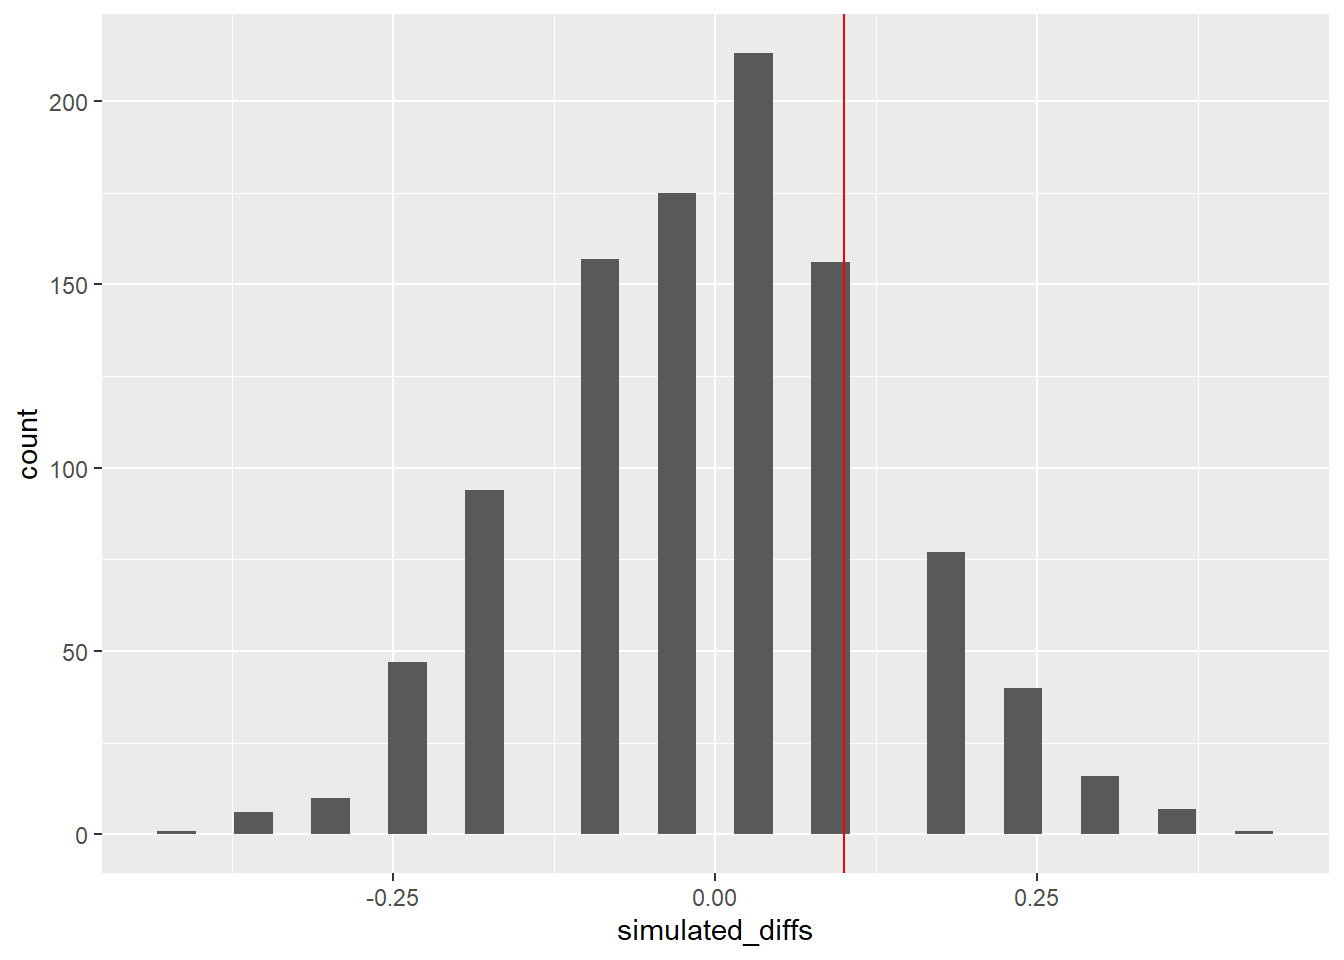
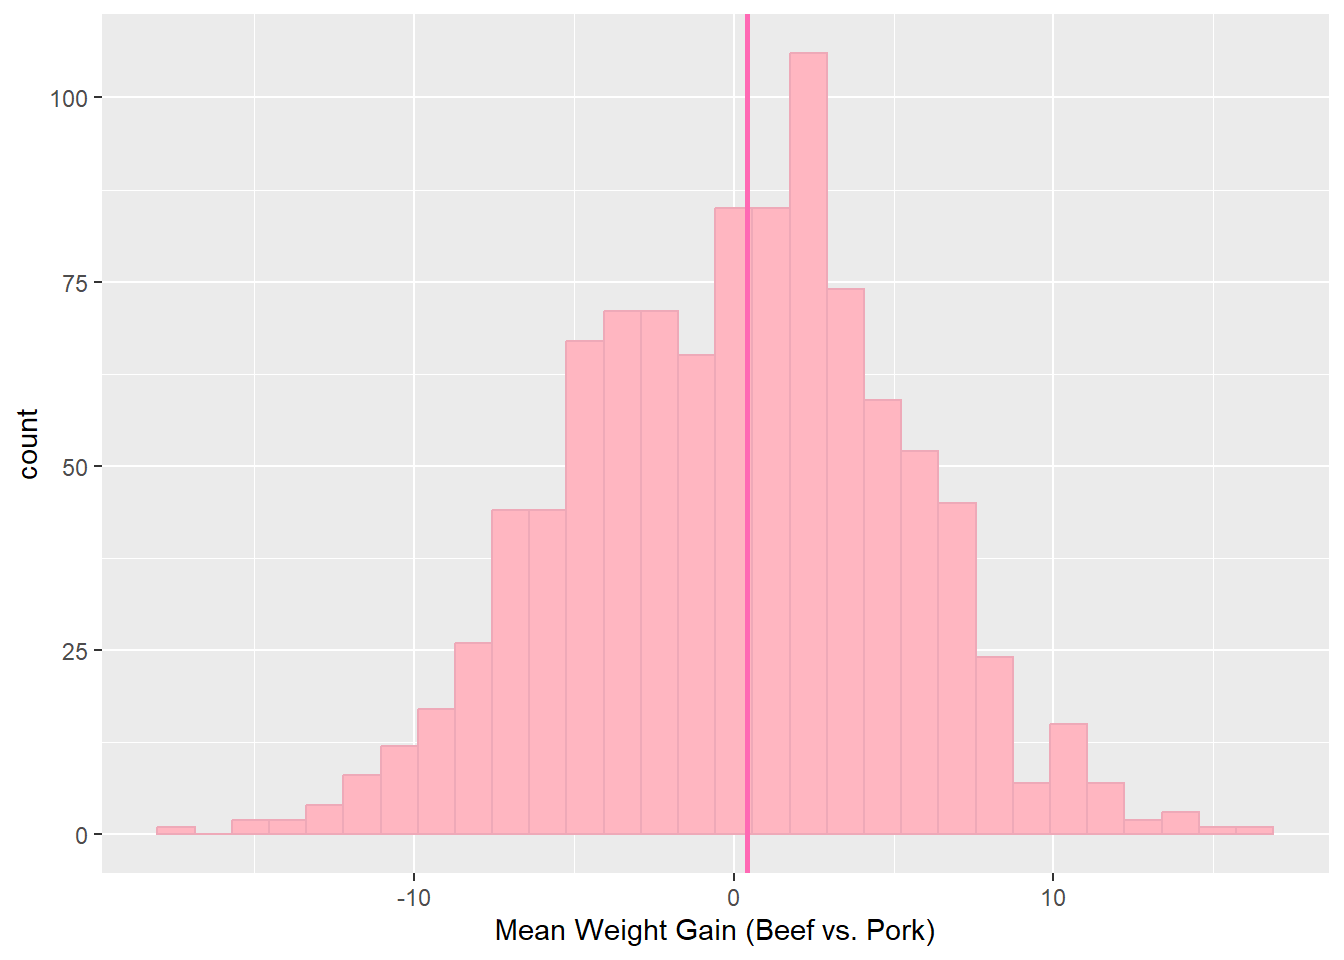
RATS:)

diff --git a/docs/mini_project2.html b/docs/mini_project2.html
@@ -20,40 +20,6 @@ ul.task-list li input[type="checkbox"] {
   margin: 0 0.8em 0.2em -1em; /* quarto-specific, see https://github.com/quarto-dev/quarto-cli/issues/4556 */ 
   vertical-align: middle;
 }
-/* CSS for syntax highlighting */
-pre > code.sourceCode { white-space: pre; position: relative; }
-pre > code.sourceCode > span { display: inline-block; line-height: 1.25; }
-pre > code.sourceCode > span:empty { height: 1.2em; }
-.sourceCode { overflow: visible; }
-code.sourceCode > span { color: inherit; text-decoration: inherit; }
-div.sourceCode { margin: 1em 0; }
-pre.sourceCode { margin: 0; }
-@media screen {
-div.sourceCode { overflow: auto; }
-}
-@media print {
-pre > code.sourceCode { white-space: pre-wrap; }
-pre > code.sourceCode > span { text-indent: -5em; padding-left: 5em; }
-}
-pre.numberSource code
-  { counter-reset: source-line 0; }
-pre.numberSource code > span
-  { position: relative; left: -4em; counter-increment: source-line; }
-pre.numberSource code > span > a:first-child::before
-  { content: counter(source-line);
-    position: relative; left: -1em; text-align: right; vertical-align: baseline;
-    border: none; display: inline-block;
-    -webkit-touch-callout: none; -webkit-user-select: none;
-    -khtml-user-select: none; -moz-user-select: none;
-    -ms-user-select: none; user-select: none;
-    padding: 0 4px; width: 4em;
-  }
-pre.numberSource { margin-left: 3em;  padding-left: 4px; }
-div.sourceCode
-  {   }
-@media screen {
-pre > code.sourceCode > span > a:first-child::before { text-decoration: underline; }
-}
 </style>
 
 
@@ -154,7 +120,13 @@ pre > code.sourceCode > span > a:first-child::before { text-decoration: underlin
 <!-- sidebar -->
 <!-- margin-sidebar -->
     <div id="quarto-margin-sidebar" class="sidebar margin-sidebar">
-        
+        <nav id="TOC" role="doc-toc" class="toc-active">
+    <h2 id="toc-title">On this page</h2>
+   
+  <ul>
+  <li><a href="#fat-rats" id="toc-fat-rats" class="nav-link active" data-scroll-target="#fat-rats">Fat Rats!</a></li>
+  </ul>
+</nav>
     </div>
 <!-- main -->
 <main class="content" id="quarto-document-content">
@@ -176,153 +148,35 @@ pre > code.sourceCode > span > a:first-child::before { text-decoration: underlin
 
 </header>
 
+<section id="fat-rats" class="level3">
+<h3 class="anchored" data-anchor-id="fat-rats">Fat Rats!</h3>
+<p>For this project, I examined the dataset FatRats, which has data from an experiment on the effects of diet on the weight gain of rats. The study had 60 baby rat participants. They split them up into groups, where they were fed different sources of protein(Beef, Cereal, and Pork). The results show the weight gain for each rat from their protein source.</p>
+<p>I decided to conduct a randomization-type test by simulating the behavior under the null hypothesis. I wanted to see if the results of the study would be significant. I did this by running simulations of the study and randomizing the protein source to see if a random test would produce significantly different responses than the experiment did.</p>
+<p>The following graphs show the difference in average wait gains between different proteins with the randomized test. The hot pink vertical line shows the average wait gain from the study that was run. The p-values below each chart show the probability under the null hypothesis(our randomized experiment) of obtaining a test statistic at least as extreme as the one obtained. The p-values are calculated by looking at how many of the randomized statistics are greater than or equal to the observed statistics from the rat study.</p>
 <div class="cell">
-<div class="sourceCode cell-code" id="cb1"><pre class="sourceCode r code-with-copy"><code class="sourceCode r"><span id="cb1-1"><a href="#cb1-1" aria-hidden="true" tabindex="-1"></a><span class="fu">library</span>(Stat2Data)</span>
-<span id="cb1-2"><a href="#cb1-2" aria-hidden="true" tabindex="-1"></a><span class="fu">library</span>(tidyverse)</span></code><button title="Copy to Clipboard" class="code-copy-button"><i class="bi"></i></button></pre></div>
-<div class="cell-output cell-output-stderr">
-<pre><code>── Attaching core tidyverse packages ──────────────────────── tidyverse 2.0.0 ──
-✔ dplyr     1.1.4     ✔ readr     2.1.5
-✔ forcats   1.0.0     ✔ stringr   1.5.1
-✔ ggplot2   3.4.4     ✔ tibble    3.2.1
-✔ lubridate 1.9.3     ✔ tidyr     1.3.1
-✔ purrr     1.0.2     
-── Conflicts ────────────────────────────────────────── tidyverse_conflicts() ──
-✖ dplyr::filter() masks stats::filter()
-✖ dplyr::lag()    masks stats::lag()
-ℹ Use the conflicted package (&lt;http://conflicted.r-lib.org/&gt;) to force all conflicts to become errors</code></pre>
-</div>
-</div>
-<div class="cell">
-<div class="sourceCode cell-code" id="cb3"><pre class="sourceCode r code-with-copy"><code class="sourceCode r"><span id="cb3-1"><a href="#cb3-1" aria-hidden="true" tabindex="-1"></a><span class="fu">data</span>(FatRats)</span>
-<span id="cb3-2"><a href="#cb3-2" aria-hidden="true" tabindex="-1"></a>FatRats<span class="sc">|&gt;</span></span>
-<span id="cb3-3"><a href="#cb3-3" aria-hidden="true" tabindex="-1"></a>  <span class="fu">mutate</span>(<span class="at">shuffled_source=</span><span class="fu">sample</span>(Source))</span></code><button title="Copy to Clipboard" class="code-copy-button"><i class="bi"></i></button></pre></div>
-<div class="cell-output cell-output-stdout">
-<pre><code>   Gain Protein Source shuffled_source
-1    73      Hi   Beef            Pork
-2   102      Hi   Beef          Cereal
-3   118      Hi   Beef          Cereal
-4   104      Hi   Beef            Pork
-5    81      Hi   Beef            Beef
-6   107      Hi   Beef            Pork
-7   100      Hi   Beef            Beef
-8    87      Hi   Beef            Pork
-9   117      Hi   Beef          Cereal
-10  111      Hi   Beef          Cereal
-11   98      Hi Cereal            Beef
-12   74      Hi Cereal            Pork
-13   56      Hi Cereal            Beef
-14  111      Hi Cereal            Beef
-15   95      Hi Cereal          Cereal
-16   88      Hi Cereal            Pork
-17   82      Hi Cereal          Cereal
-18   77      Hi Cereal            Beef
-19   86      Hi Cereal            Beef
-20   92      Hi Cereal            Pork
-21   94      Hi   Pork            Pork
-22   79      Hi   Pork            Beef
-23   96      Hi   Pork            Pork
-24   98      Hi   Pork            Pork
-25  102      Hi   Pork          Cereal
-26  102      Hi   Pork            Pork
-27  108      Hi   Pork          Cereal
-28   91      Hi   Pork            Beef
-29  120      Hi   Pork            Beef
-30  105      Hi   Pork          Cereal
-31   90      Lo   Beef            Pork
-32   76      Lo   Beef            Beef
-33   90      Lo   Beef            Pork
-34   64      Lo   Beef          Cereal
-35   86      Lo   Beef            Beef
-36   51      Lo   Beef          Cereal
-37   72      Lo   Beef            Pork
-38   90      Lo   Beef            Beef
-39   95      Lo   Beef            Beef
-40   78      Lo   Beef          Cereal
-41  107      Lo Cereal            Beef
-42   95      Lo Cereal          Cereal
-43   97      Lo Cereal            Pork
-44   80      Lo Cereal          Cereal
-45   98      Lo Cereal            Beef
-46   74      Lo Cereal          Cereal
-47   74      Lo Cereal            Pork
-48   67      Lo Cereal            Beef
-49   89      Lo Cereal          Cereal
-50   58      Lo Cereal          Cereal
-51   49      Lo   Pork          Cereal
-52   82      Lo   Pork          Cereal
-53   75      Lo   Pork            Beef
-54   86      Lo   Pork            Pork
-55   81      Lo   Pork            Pork
-56   97      Lo   Pork            Pork
-57  106      Lo   Pork            Pork
-58   70      Lo   Pork            Beef
-59   61      Lo   Pork          Cereal
-60   82      Lo   Pork            Beef</code></pre>
-</div>
-<div class="sourceCode cell-code" id="cb5"><pre class="sourceCode r code-with-copy"><code class="sourceCode r"><span id="cb5-1"><a href="#cb5-1" aria-hidden="true" tabindex="-1"></a><span class="co">#Is there significance between foods fed to the rats(beef, cereal, and pork)?</span></span>
-<span id="cb5-2"><a href="#cb5-2" aria-hidden="true" tabindex="-1"></a>rat_summary<span class="ot">&lt;-</span>FatRats<span class="sc">|&gt;</span></span>
-<span id="cb5-3"><a href="#cb5-3" aria-hidden="true" tabindex="-1"></a>  <span class="fu">group_by</span>(Source)<span class="sc">|&gt;</span></span>
-<span id="cb5-4"><a href="#cb5-4" aria-hidden="true" tabindex="-1"></a>  <span class="fu">summarize</span>(<span class="at">prop_gain_lot=</span><span class="fu">mean</span>(Gain<span class="sc">&gt;=</span><span class="st">"80"</span>))</span>
-<span id="cb5-5"><a href="#cb5-5" aria-hidden="true" tabindex="-1"></a>observed_diff<span class="ot">&lt;-</span>rat_summary[[<span class="dv">2</span>]][<span class="dv">2</span>]<span class="sc">-</span>rat_summary[[<span class="dv">2</span>]][<span class="dv">1</span>]</span>
-<span id="cb5-6"><a href="#cb5-6" aria-hidden="true" tabindex="-1"></a></span>
-<span id="cb5-7"><a href="#cb5-7" aria-hidden="true" tabindex="-1"></a></span>
-<span id="cb5-8"><a href="#cb5-8" aria-hidden="true" tabindex="-1"></a>simulated_diffs<span class="ot">&lt;-</span><span class="fu">vector</span>(<span class="st">"double"</span>, <span class="dv">1000</span>)</span>
-<span id="cb5-9"><a href="#cb5-9" aria-hidden="true" tabindex="-1"></a><span class="cf">for</span>(i <span class="cf">in</span> <span class="dv">1</span><span class="sc">:</span><span class="dv">1000</span>){</span>
-<span id="cb5-10"><a href="#cb5-10" aria-hidden="true" tabindex="-1"></a>new_rat<span class="ot">&lt;-</span>FatRats<span class="sc">|&gt;</span></span>
-<span id="cb5-11"><a href="#cb5-11" aria-hidden="true" tabindex="-1"></a>  <span class="fu">mutate</span>(<span class="at">shuffled_source=</span><span class="fu">sample</span>(Source))<span class="sc">|&gt;</span></span>
-<span id="cb5-12"><a href="#cb5-12" aria-hidden="true" tabindex="-1"></a>  <span class="fu">group_by</span>(shuffled_source)<span class="sc">|&gt;</span></span>
-<span id="cb5-13"><a href="#cb5-13" aria-hidden="true" tabindex="-1"></a>  <span class="fu">summarize</span>(<span class="at">prop_gain_lot=</span><span class="fu">mean</span>(Gain<span class="sc">&gt;=</span><span class="st">"80"</span>))</span>
-<span id="cb5-14"><a href="#cb5-14" aria-hidden="true" tabindex="-1"></a>simulated_diffs[[i]]<span class="ot">&lt;-</span>new_rat[[<span class="dv">2</span>]][<span class="dv">2</span>]<span class="sc">-</span>new_rat[[<span class="dv">2</span>]][<span class="dv">1</span>]}</span>
-<span id="cb5-15"><a href="#cb5-15" aria-hidden="true" tabindex="-1"></a></span>
-<span id="cb5-16"><a href="#cb5-16" aria-hidden="true" tabindex="-1"></a>null_world<span class="ot">&lt;-</span><span class="fu">tibble</span>(<span class="at">simulated_diffs=</span>simulated_diffs)</span>
-<span id="cb5-17"><a href="#cb5-17" aria-hidden="true" tabindex="-1"></a><span class="fu">ggplot</span>(null_world, <span class="fu">aes</span>(<span class="at">x=</span>simulated_diffs))<span class="sc">+</span></span>
-<span id="cb5-18"><a href="#cb5-18" aria-hidden="true" tabindex="-1"></a>  <span class="fu">geom_histogram</span>()<span class="sc">+</span></span>
-<span id="cb5-19"><a href="#cb5-19" aria-hidden="true" tabindex="-1"></a>  <span class="fu">geom_vline</span>(<span class="at">xintercept=</span>observed_diff, <span class="at">color=</span><span class="st">"red"</span>)</span></code><button title="Copy to Clipboard" class="code-copy-button"><i class="bi"></i></button></pre></div>
-<div class="cell-output cell-output-stderr">
-<pre><code>`stat_bin()` using `bins = 30`. Pick better value with `binwidth`.</code></pre>
-</div>
-<div class="cell-output-display">
-<p><img src="mini_project2_files/figure-html/unnamed-chunk-2-1.png" class="img-fluid" width="672"></p>
-</div>
-<div class="sourceCode cell-code" id="cb7"><pre class="sourceCode r code-with-copy"><code class="sourceCode r"><span id="cb7-1"><a href="#cb7-1" aria-hidden="true" tabindex="-1"></a>p_value<span class="ot">&lt;-</span><span class="fu">sum</span>(simulated_diffs<span class="sc">&gt;=</span>observed_diff)<span class="sc">/</span><span class="dv">1000</span></span>
-<span id="cb7-2"><a href="#cb7-2" aria-hidden="true" tabindex="-1"></a>p_value</span></code><button title="Copy to Clipboard" class="code-copy-button"><i class="bi"></i></button></pre></div>
-<div class="cell-output cell-output-stdout">
-<pre><code>[1] 0.11</code></pre>
-</div>
-</div>
-<div class="cell">
-<div class="sourceCode cell-code" id="cb9"><pre class="sourceCode r code-with-copy"><code class="sourceCode r"><span id="cb9-1"><a href="#cb9-1" aria-hidden="true" tabindex="-1"></a>rat_summary<span class="ot">&lt;-</span>FatRats<span class="sc">|&gt;</span></span>
-<span id="cb9-2"><a href="#cb9-2" aria-hidden="true" tabindex="-1"></a>  <span class="fu">group_by</span>(Protein)<span class="sc">|&gt;</span></span>
-<span id="cb9-3"><a href="#cb9-3" aria-hidden="true" tabindex="-1"></a>  <span class="fu">summarize</span>(<span class="at">prop_gain_lot=</span><span class="fu">mean</span>(Gain<span class="sc">&gt;=</span><span class="st">"80"</span>))</span>
-<span id="cb9-4"><a href="#cb9-4" aria-hidden="true" tabindex="-1"></a>observed_diff<span class="ot">&lt;-</span>rat_summary[[<span class="dv">2</span>]][<span class="dv">2</span>]<span class="sc">-</span>rat_summary[[<span class="dv">2</span>]][<span class="dv">1</span>]</span>
-<span id="cb9-5"><a href="#cb9-5" aria-hidden="true" tabindex="-1"></a></span>
-<span id="cb9-6"><a href="#cb9-6" aria-hidden="true" tabindex="-1"></a></span>
-<span id="cb9-7"><a href="#cb9-7" aria-hidden="true" tabindex="-1"></a>simulated_diffs<span class="ot">&lt;-</span><span class="fu">vector</span>(<span class="st">"double"</span>, <span class="dv">1000</span>)</span>
-<span id="cb9-8"><a href="#cb9-8" aria-hidden="true" tabindex="-1"></a><span class="cf">for</span>(i <span class="cf">in</span> <span class="dv">1</span><span class="sc">:</span><span class="dv">1000</span>){</span>
-<span id="cb9-9"><a href="#cb9-9" aria-hidden="true" tabindex="-1"></a>new_rat<span class="ot">&lt;-</span>FatRats<span class="sc">|&gt;</span></span>
-<span id="cb9-10"><a href="#cb9-10" aria-hidden="true" tabindex="-1"></a>  <span class="fu">mutate</span>(<span class="at">shuffled_protein=</span><span class="fu">sample</span>(Protein))<span class="sc">|&gt;</span></span>
-<span id="cb9-11"><a href="#cb9-11" aria-hidden="true" tabindex="-1"></a>  <span class="fu">group_by</span>(shuffled_protein)<span class="sc">|&gt;</span></span>
-<span id="cb9-12"><a href="#cb9-12" aria-hidden="true" tabindex="-1"></a>  <span class="fu">summarize</span>(<span class="at">prop_gain_lot=</span><span class="fu">mean</span>(Gain<span class="sc">&gt;=</span><span class="st">"80"</span>))</span>
-<span id="cb9-13"><a href="#cb9-13" aria-hidden="true" tabindex="-1"></a>simulated_diffs[[i]]<span class="ot">&lt;-</span>new_rat[[<span class="dv">2</span>]][<span class="dv">2</span>]<span class="sc">-</span>new_rat[[<span class="dv">2</span>]][<span class="dv">1</span>]}</span>
-<span id="cb9-14"><a href="#cb9-14" aria-hidden="true" tabindex="-1"></a></span>
-<span id="cb9-15"><a href="#cb9-15" aria-hidden="true" tabindex="-1"></a>null_world<span class="ot">&lt;-</span><span class="fu">tibble</span>(<span class="at">simulated_diffs=</span>simulated_diffs)</span>
-<span id="cb9-16"><a href="#cb9-16" aria-hidden="true" tabindex="-1"></a><span class="fu">ggplot</span>(null_world, <span class="fu">aes</span>(<span class="at">x=</span>simulated_diffs))<span class="sc">+</span></span>
-<span id="cb9-17"><a href="#cb9-17" aria-hidden="true" tabindex="-1"></a>  <span class="fu">geom_histogram</span>()<span class="sc">+</span></span>
-<span id="cb9-18"><a href="#cb9-18" aria-hidden="true" tabindex="-1"></a>  <span class="fu">geom_vline</span>(<span class="at">xintercept=</span>observed_diff, <span class="at">color=</span><span class="st">"red"</span>)</span></code><button title="Copy to Clipboard" class="code-copy-button"><i class="bi"></i></button></pre></div>
-<div class="cell-output cell-output-stderr">
-<pre><code>`stat_bin()` using `bins = 30`. Pick better value with `binwidth`.</code></pre>
-</div>
 <div class="cell-output-display">
 <p><img src="mini_project2_files/figure-html/unnamed-chunk-3-1.png" class="img-fluid" width="672"></p>
 </div>
-<div class="sourceCode cell-code" id="cb11"><pre class="sourceCode r code-with-copy"><code class="sourceCode r"><span id="cb11-1"><a href="#cb11-1" aria-hidden="true" tabindex="-1"></a>p_value<span class="ot">&lt;-</span><span class="fu">sum</span>(simulated_diffs<span class="sc">&gt;=</span>observed_diff)<span class="sc">/</span><span class="dv">1000</span></span>
-<span id="cb11-2"><a href="#cb11-2" aria-hidden="true" tabindex="-1"></a>p_value</span></code><button title="Copy to Clipboard" class="code-copy-button"><i class="bi"></i></button></pre></div>
 <div class="cell-output cell-output-stdout">
-<pre><code>[1] 0.297</code></pre>
+<pre><code>Beef vs. Pork p-value: 0.28 </code></pre>
+</div>
+<div class="cell-output-display">
+<p><img src="mini_project2_files/figure-html/unnamed-chunk-3-2.png" class="img-fluid" width="672"></p>
+</div>
+<div class="cell-output cell-output-stdout">
+<pre><code>Beef vs. Cereal p-value: 0.29 </code></pre>
+</div>
+<div class="cell-output-display">
+<p><img src="mini_project2_files/figure-html/unnamed-chunk-3-3.png" class="img-fluid" width="672"></p>
+</div>
+<div class="cell-output cell-output-stdout">
+<pre><code>Pork vs. Cereal p-value: 0.287 </code></pre>
 </div>
 </div>
+<p>As we can see, all of the p-values are close to 0.3. Generally, if the p-value is less than 0.05, we will consider the results of the study statistically significant. Because these results are well over the point of statistical significance, we can fail to reject the null hypothesis and claim that the difference in weight gains due to different protiens is not statistically significant.</p>
 
 
+</section>
 
 </main> <!-- /main -->
 <script id="quarto-html-after-body" type="application/javascript">
